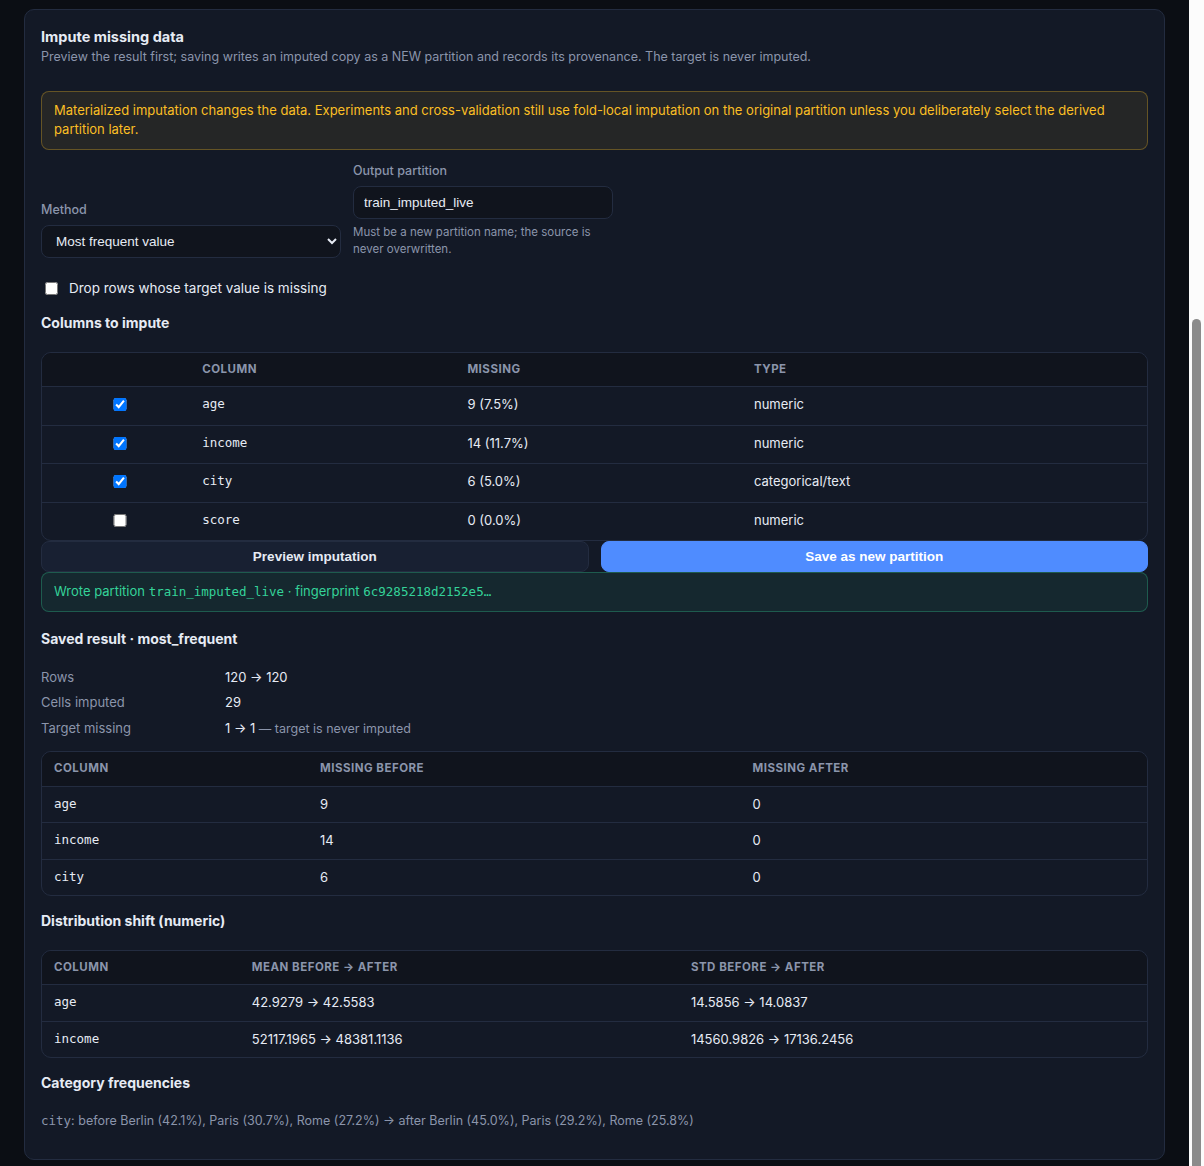
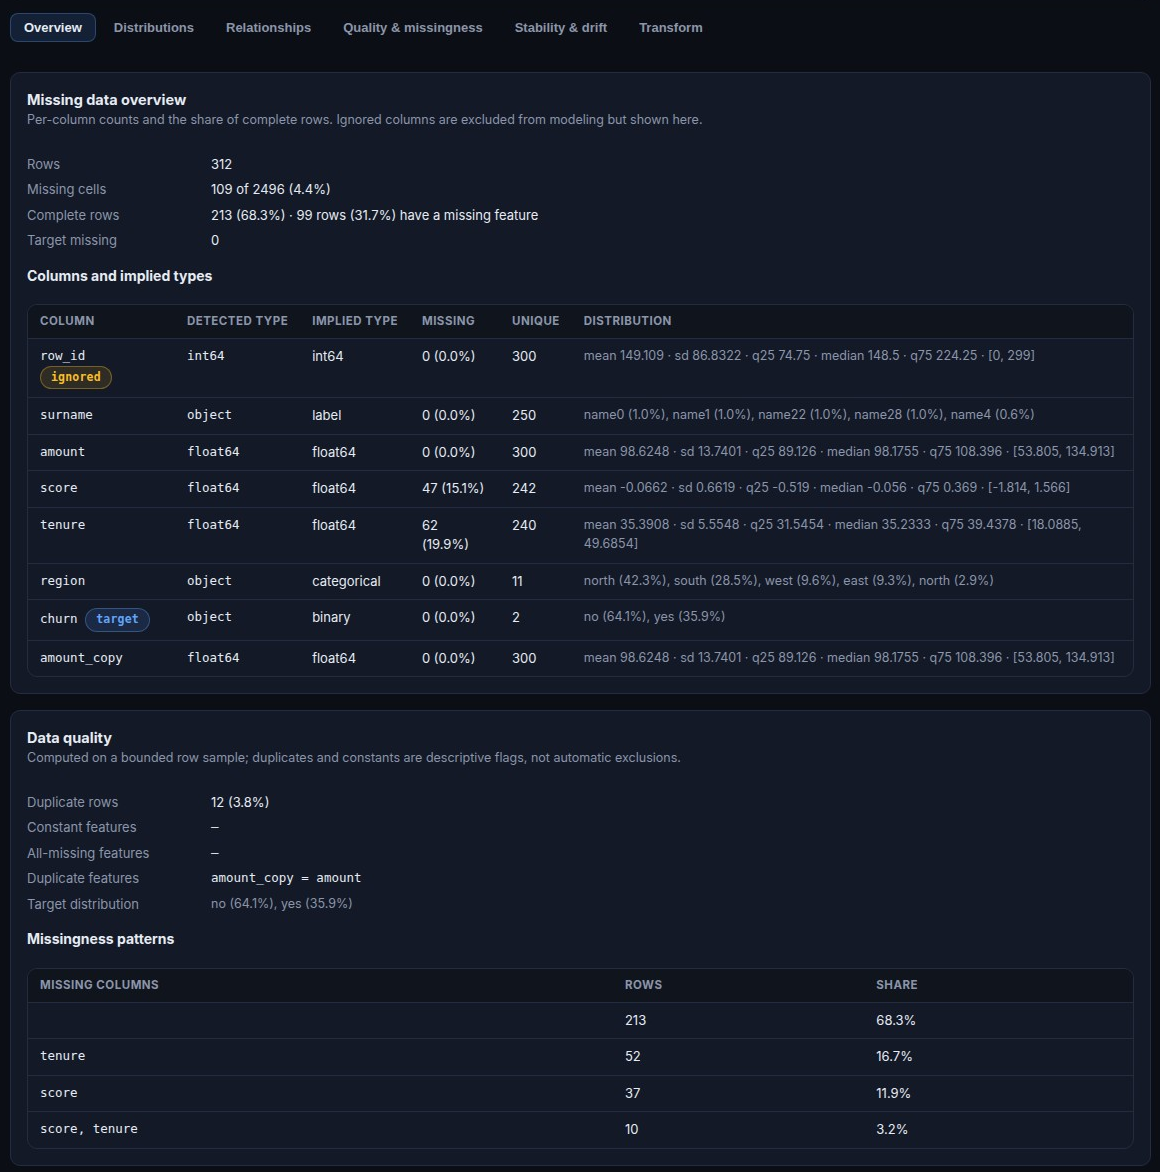
feat(webui): group the Data Preprocessing cards into tabs
The page had grown to twelve stacked cards after the EDA work and read as one
long sequence. This groups them by the question each answers:

  Overview              partition, missing-data profile, data quality, preview
  Distributions         per-column distributions, target analysis
  Relationships         associations, collinearity, effect sizes
  Quality / missingness flags, Little's MCAR, type audit, formal tests
  Stability / drift     half-sample stability + report, partition drift
  Transform             deduplicate, encoding preview, impute, clip

The active tab is URL-synced (?tab=quality): it survives a reload and can be
deep-linked. Only the active tab's cards mount, so the drift request now runs
when its tab is opened instead of on every page load.

Verified in the running app: each tab renders exactly its cards (Overview 3,
Distributions 2, Relationships 3, Quality 4, Stability 2, Transform 4 plus the
always-visible partition picker), deep link ?tab=quality selects the tab,
reload keeps it, tab clicks update the query string, and no card is duplicated
or lost. npm run build clean; Sphinx HTML 0 warnings; 653 Python tests still
pass. docs/images/ui-preprocessing.png recaptured with the tab bar.

diff --git a/webui/src/pages/Preprocessing.tsx b/webui/src/pages/Preprocessing.tsx
@@ -1,5 +1,6 @@
 import { useEffect, useMemo, useState } from "react";
 import { useMutation, useQuery, useQueryClient } from "@tanstack/react-query";
+import { useSearchParams } from "react-router-dom";
 
 import {
   clipDataset,
@@ -32,9 +33,12 @@ import type {
   TargetComposition,
   TypeAudit,
 } from "../api/client";
-import { Badge, Card, EmptyState, ErrorNote, Loading, Table, fmtNum, fmtSci } from "../components/ui";
+import { Badge, Card, EmptyState, ErrorNote, Loading, Table, Tabs, fmtNum, fmtSci } from "../components/ui";
 import { Heatmap } from "../components/Heatmap";
 import { useTask } from "../lib/task-context";
+
+/** Tab ids are URL-synced so a tab survives reload and can be deep-linked. */
+const TAB_IDS = ["overview", "distributions", "relationships", "quality", "stability", "transform"];
 
 function pct(value: number | null | undefined): string {
   return `${((value ?? 0) * 100).toFixed(1)}%`;
@@ -1427,6 +1431,10 @@ export default function PreprocessingPage() {
     enabled: !!task,
     retry: false,
   });
+  const [searchParams, setSearchParams] = useSearchParams();
+  const tabParam = searchParams.get("tab");
+  const tab = TAB_IDS.includes(tabParam ?? "") ? (tabParam as string) : "overview";
+  const setTab = (id: string) => setSearchParams({ tab: id }, { replace: true });
   const partitions = useMemo(() => Object.keys(metaQ.data?.partitions ?? {}), [metaQ.data]);
 
   const [partition, setPartition] = useState("train");
@@ -1552,6 +1560,20 @@ export default function PreprocessingPage() {
 
       {data && (
         <>
+          <Tabs
+            tabs={[
+              { id: "overview", label: "Overview" },
+              { id: "distributions", label: "Distributions" },
+              { id: "relationships", label: "Relationships" },
+              { id: "quality", label: "Quality & missingness" },
+              { id: "stability", label: "Stability & drift" },
+              { id: "transform", label: "Transform" },
+            ]}
+            active={tab}
+            onChange={setTab}
+          />
+          {tab === "overview" && (
+            <>
           <Card title="Missing data overview" sub="Per-column counts and the share of complete rows. Ignored columns are excluded from modeling but shown here.">
             <dl className="kv">
               <dt>Rows</dt>
@@ -1601,14 +1623,31 @@ export default function PreprocessingPage() {
             )}
           </Card>
 
+            </>
+          )}
+
+          {tab === "distributions" && (
+            <>
           <DistributionCard data={data} />
 
           <TargetCard composition={data.target_composition} />
 
+            </>
+          )}
+
+          {tab === "relationships" && (
+            <>
           <AssociationsCard data={data} />
 
           <CollinearityCard multicollinearity={data.multicollinearity} />
 
+          <EffectSizesCard effects={data.effect_sizes} />
+
+            </>
+          )}
+
+          {tab === "quality" && (
+            <>
           <QualityFlagsCard flags={data.quality_flags} />
 
           <MissingMechanismCard mechanism={data.missing_mechanism} />
@@ -1617,12 +1656,20 @@ export default function PreprocessingPage() {
 
           <FormalTestsCard tests={data.formal_tests} />
 
-          <EffectSizesCard effects={data.effect_sizes} />
+            </>
+          )}
 
+          {tab === "stability" && (
+            <>
           <DriftCard task={task} partition={partition} partitions={partitions} />
 
           <StabilityCard report={data.stability} task={task} partition={partition} />
 
+            </>
+          )}
+
+          {tab === "overview" && (
+            <>
           <Card title="Data quality" sub="Computed on a bounded row sample; duplicates and constants are descriptive flags, not automatic exclusions.">
             {data.quality ? (
               <dl className="kv">
@@ -1677,10 +1724,20 @@ export default function PreprocessingPage() {
             )}
           </Card>
 
+            </>
+          )}
+
+          {tab === "transform" && (
+            <>
           <DuplicatesCard task={task} partition={partition} qc={qc} />
 
           <EncodingCard task={task} partition={partition} />
 
+            </>
+          )}
+
+          {tab === "overview" && (
+            <>
           <Card title="Dataset preview" sub={`First ${fmtNum(data.preview.length)} rows of the stored partition. “—” is a missing value.`}>
             <Table<Record<string, unknown>>
               columns={data.columns}
@@ -1696,6 +1753,11 @@ export default function PreprocessingPage() {
             />
           </Card>
 
+            </>
+          )}
+
+          {tab === "transform" && (
+            <>
           <Card
             title="Impute missing data"
             sub="Preview the result first; saving writes an imputed copy as a NEW partition and records its provenance. The target is never imputed."
@@ -1819,6 +1881,8 @@ export default function PreprocessingPage() {
           </Card>
 
           <ClipCard task={task} partition={partition} overview={data} qc={qc} />
+            </>
+          )}
         </>
       )}
     </div>

diff --git a/docs/ui-manual.rst b/docs/ui-manual.rst
@@ -198,14 +198,35 @@ observations across folds.
 Missing data and imputation
 ^^^^^^^^^^^^^^^^^^^^^^^^^^^
 
-Open **Data Preprocessing**. Choose the stored partition to inspect. The page
-shows the row count, per-column detected and implied types, missing counts and
-percentages, complete-row share, numeric quantiles or top categories, a data
-preview with missing cells rendered as “—”, and a data-quality card with
-duplicate rows/features, constant and all-missing columns, and the observed
-missingness patterns.
+Open **Data Preprocessing**. Choose the stored partition to inspect. The page is
+organised in six tabs, and the selected tab is kept in the URL
+(``?tab=quality``), so a view survives a reload and can be linked:
 
-Three further cards summarize the partition before modeling:
+* **Overview** — partition picker, per-column detected and implied types with
+  missing counts and complete-row share, the data-quality card (duplicate
+  rows/features, constant and all-missing columns, missingness patterns) and the
+  row preview with missing cells rendered as “—”.
+* **Distributions** — one row per active feature (quantile rails and categorical
+  bars, IQR outlier counts) and the target-analysis card.
+* **Relationships** — target and feature associations with the Pearson-only
+  heatmap, the Spearman/Kendall table, collinearity diagnostics, and the
+  bootstrap effect sizes between the largest target classes.
+* **Quality & missingness** — the data-quality flags, Little's MCAR block with
+  mean shifts, the dtype/value type audit, and the Anderson–Darling normality
+  tests.
+* **Stability & drift** — half-sample summary stability with the Markdown report
+  download, and the partition-drift comparison against another stored partition.
+* **Transform** — impute, clip/winsorize, deduplicate and preview categorical
+  encoding; every action previews first and writes a new partition.
+
+.. figure:: images/ui-preprocessing.png
+   :alt: Data Preprocessing page with the six-tab bar and the Overview tab
+   :width: 100%
+
+   The tab bar with **Overview** active: missing-data profile, data-quality flags
+   and the row preview. Transformations live under **Transform**.
+
+The remaining tabs group the cards by question:
 
 * **Distributions** — one row per active feature. Numeric columns get a rail
   spanning min → q25 → median → q75 → max with the IQR outlier count; categorical
@@ -231,7 +252,7 @@ Three further cards summarize the partition before modeling:
    Distribution rails, exact target composition, association heatmap and VIF
    table for a registered partition; every card states its sampling scope.
 
-Below them, three diagnostic cards turn the profile into review decisions:
+Under **Quality & missingness**, three diagnostic cards turn the profile into review decisions:
 
 * **Data-quality flags** — identifier-like columns (high distinct ratio or an
   id/name hint; continuous measurements are not flagged), high-cardinality text
@@ -256,7 +277,7 @@ Below them, three diagnostic cards turn the profile into review decisions:
    Flags, Little's MCAR statistic and dtype/value mismatches; every entry names
    its column and no flag removes anything automatically.
 
-Four cards turn the diagnostics into statistics and comparisons:
+The **Stability & drift** and **Quality & missingness** tabs add the statistics:
 
 * **Formal tests (Anderson–Darling)** — one row per numeric feature with the
   statistic, the tabulated critical value at α = 0.05, the verdict, and the
@@ -319,12 +340,6 @@ quantile winsorizing and z-score clipping. Select numeric columns, preview the
 bounds, how many values each tail moves, and the before/after mean and standard
 deviation, then save a new partition. The target and ignored columns are refused,
 and non-numeric selections are rejected.
-
-.. figure:: images/ui-preprocessing.png
-   :alt: Data Preprocessing page with missing-data overview and imputation controls
-   :width: 100%
-
-   Missing-data profile and the imputation card; saving writes a new partition.
 
 Experiment Design (external experiments)
 ~~~~~~~~~~~~~~~~~~~~~~~~~~~~~~~~~~~~~~~~

diff --git a/CHANGELOG.rst b/CHANGELOG.rst
@@ -59,6 +59,11 @@ Data Preprocessing page
   ``eda-stability.csv``, ``eda-quality-flags.csv`` and ``eda-report.md`` from
   the same helpers the Data page uses, so the offline report and the UI cannot
   drift apart.
+* **Tabbed Data Preprocessing page**: the twelve cards are grouped into
+  **Overview**, **Distributions**, **Relationships**, **Quality & missingness**,
+  **Stability & drift** and **Transform**. The active tab lives in the URL
+  (``?tab=quality``), so a view survives a reload and can be linked; only the
+  active tab's cards mount, so the drift query runs when its tab is opened.
 
 Categorical encoding, outlier clipping and duplicate removal
 ~~~~~~~~~~~~~~~~~~~~~~~~~~~~~~~~~~~~~~~~~~~~~~~~~~~~~~~~~~~~~
